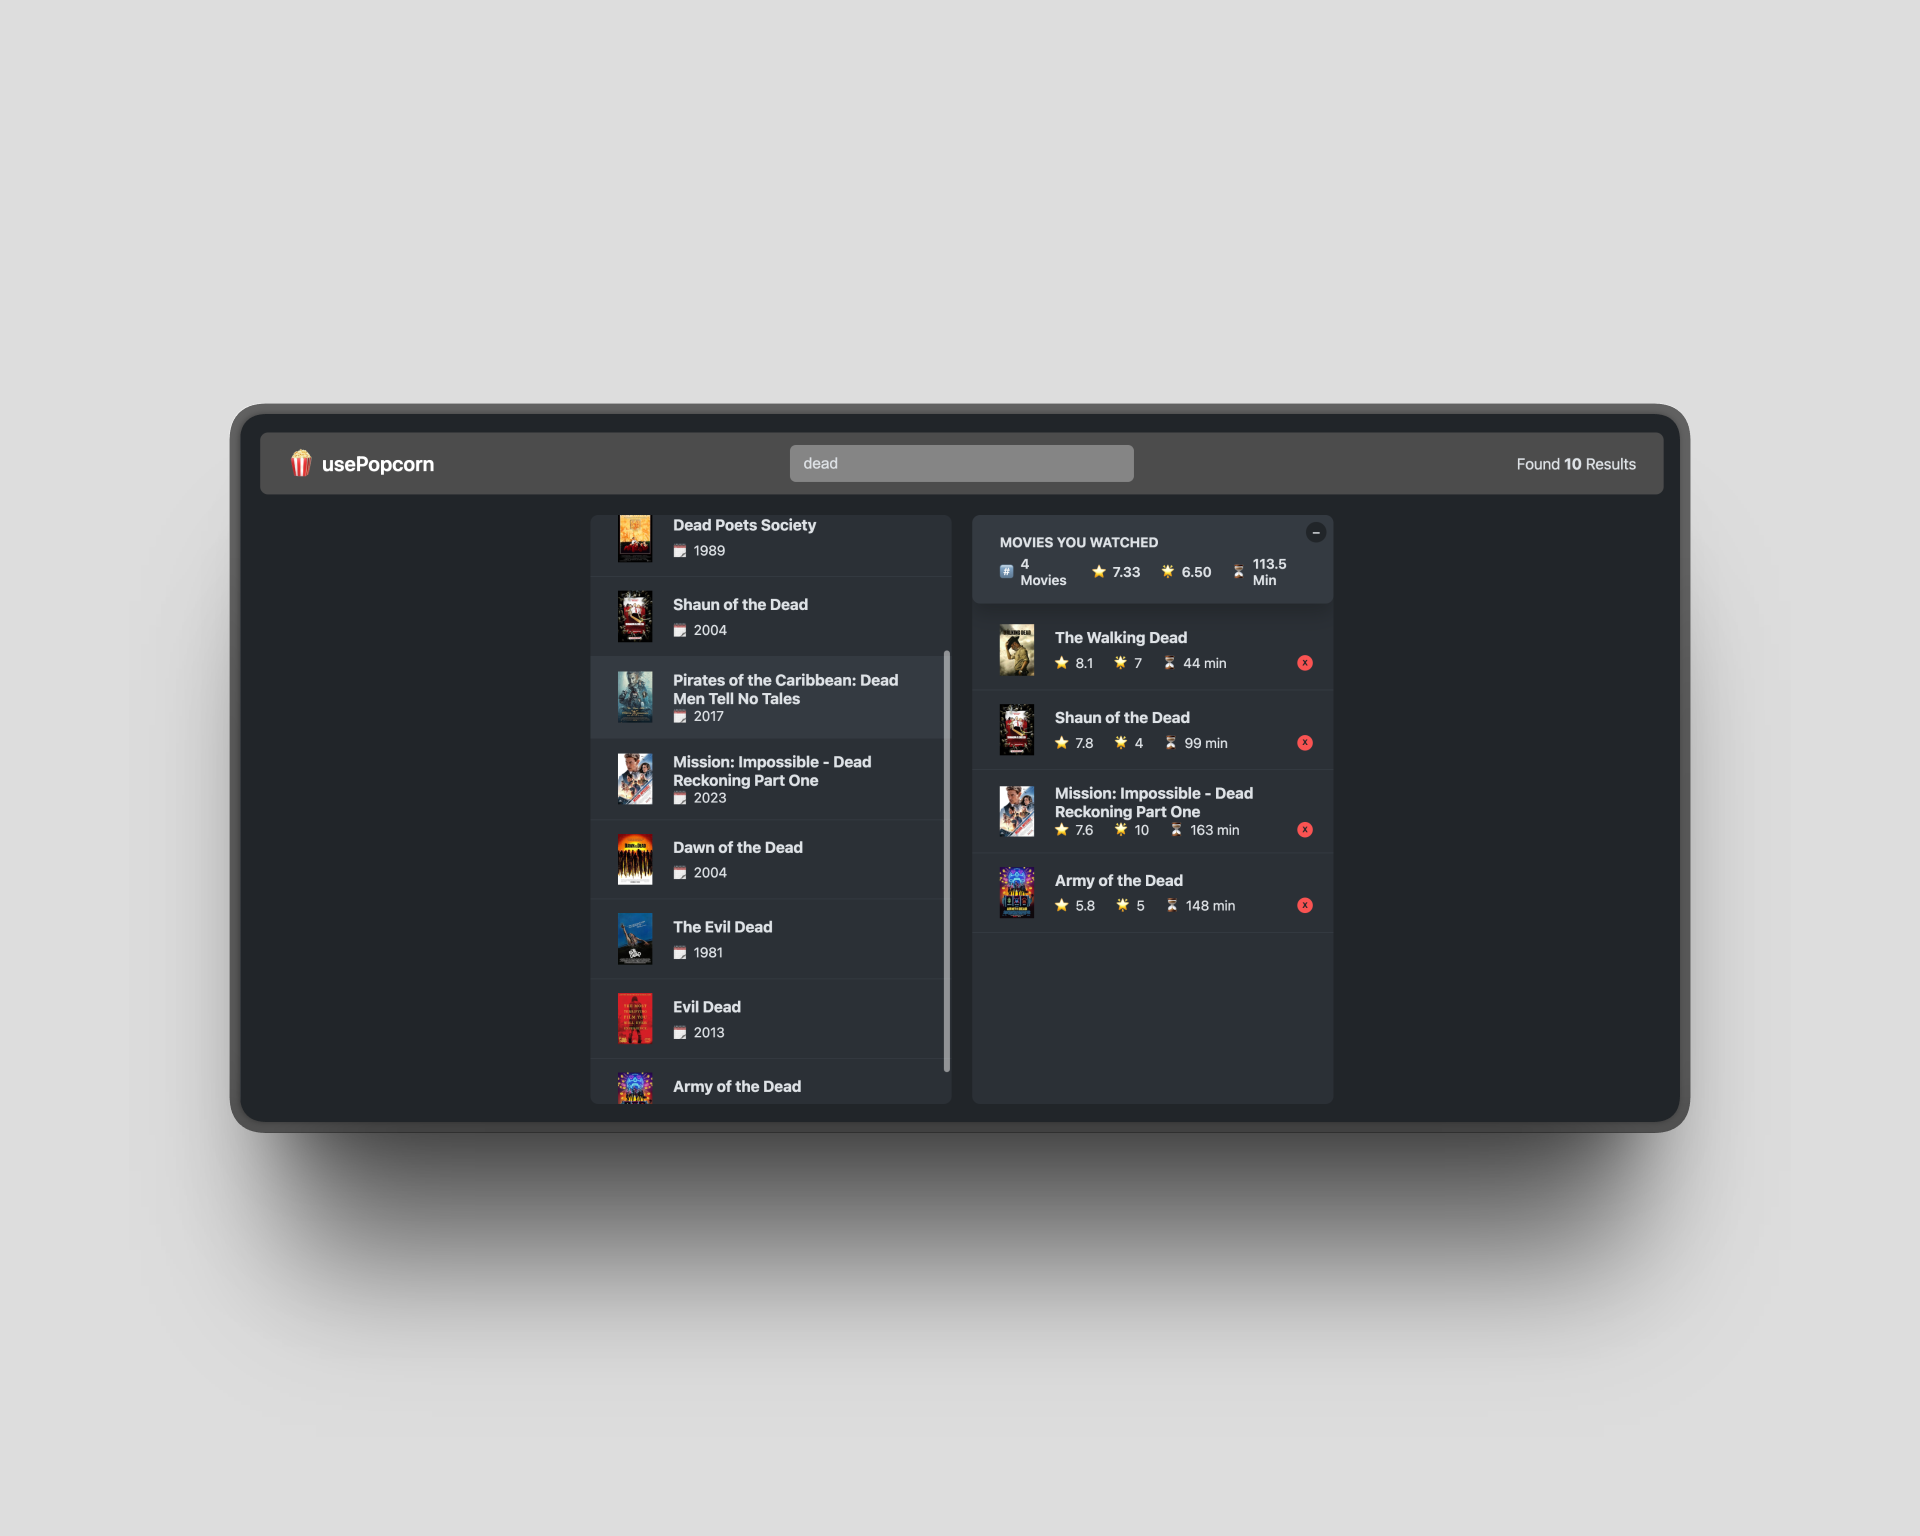
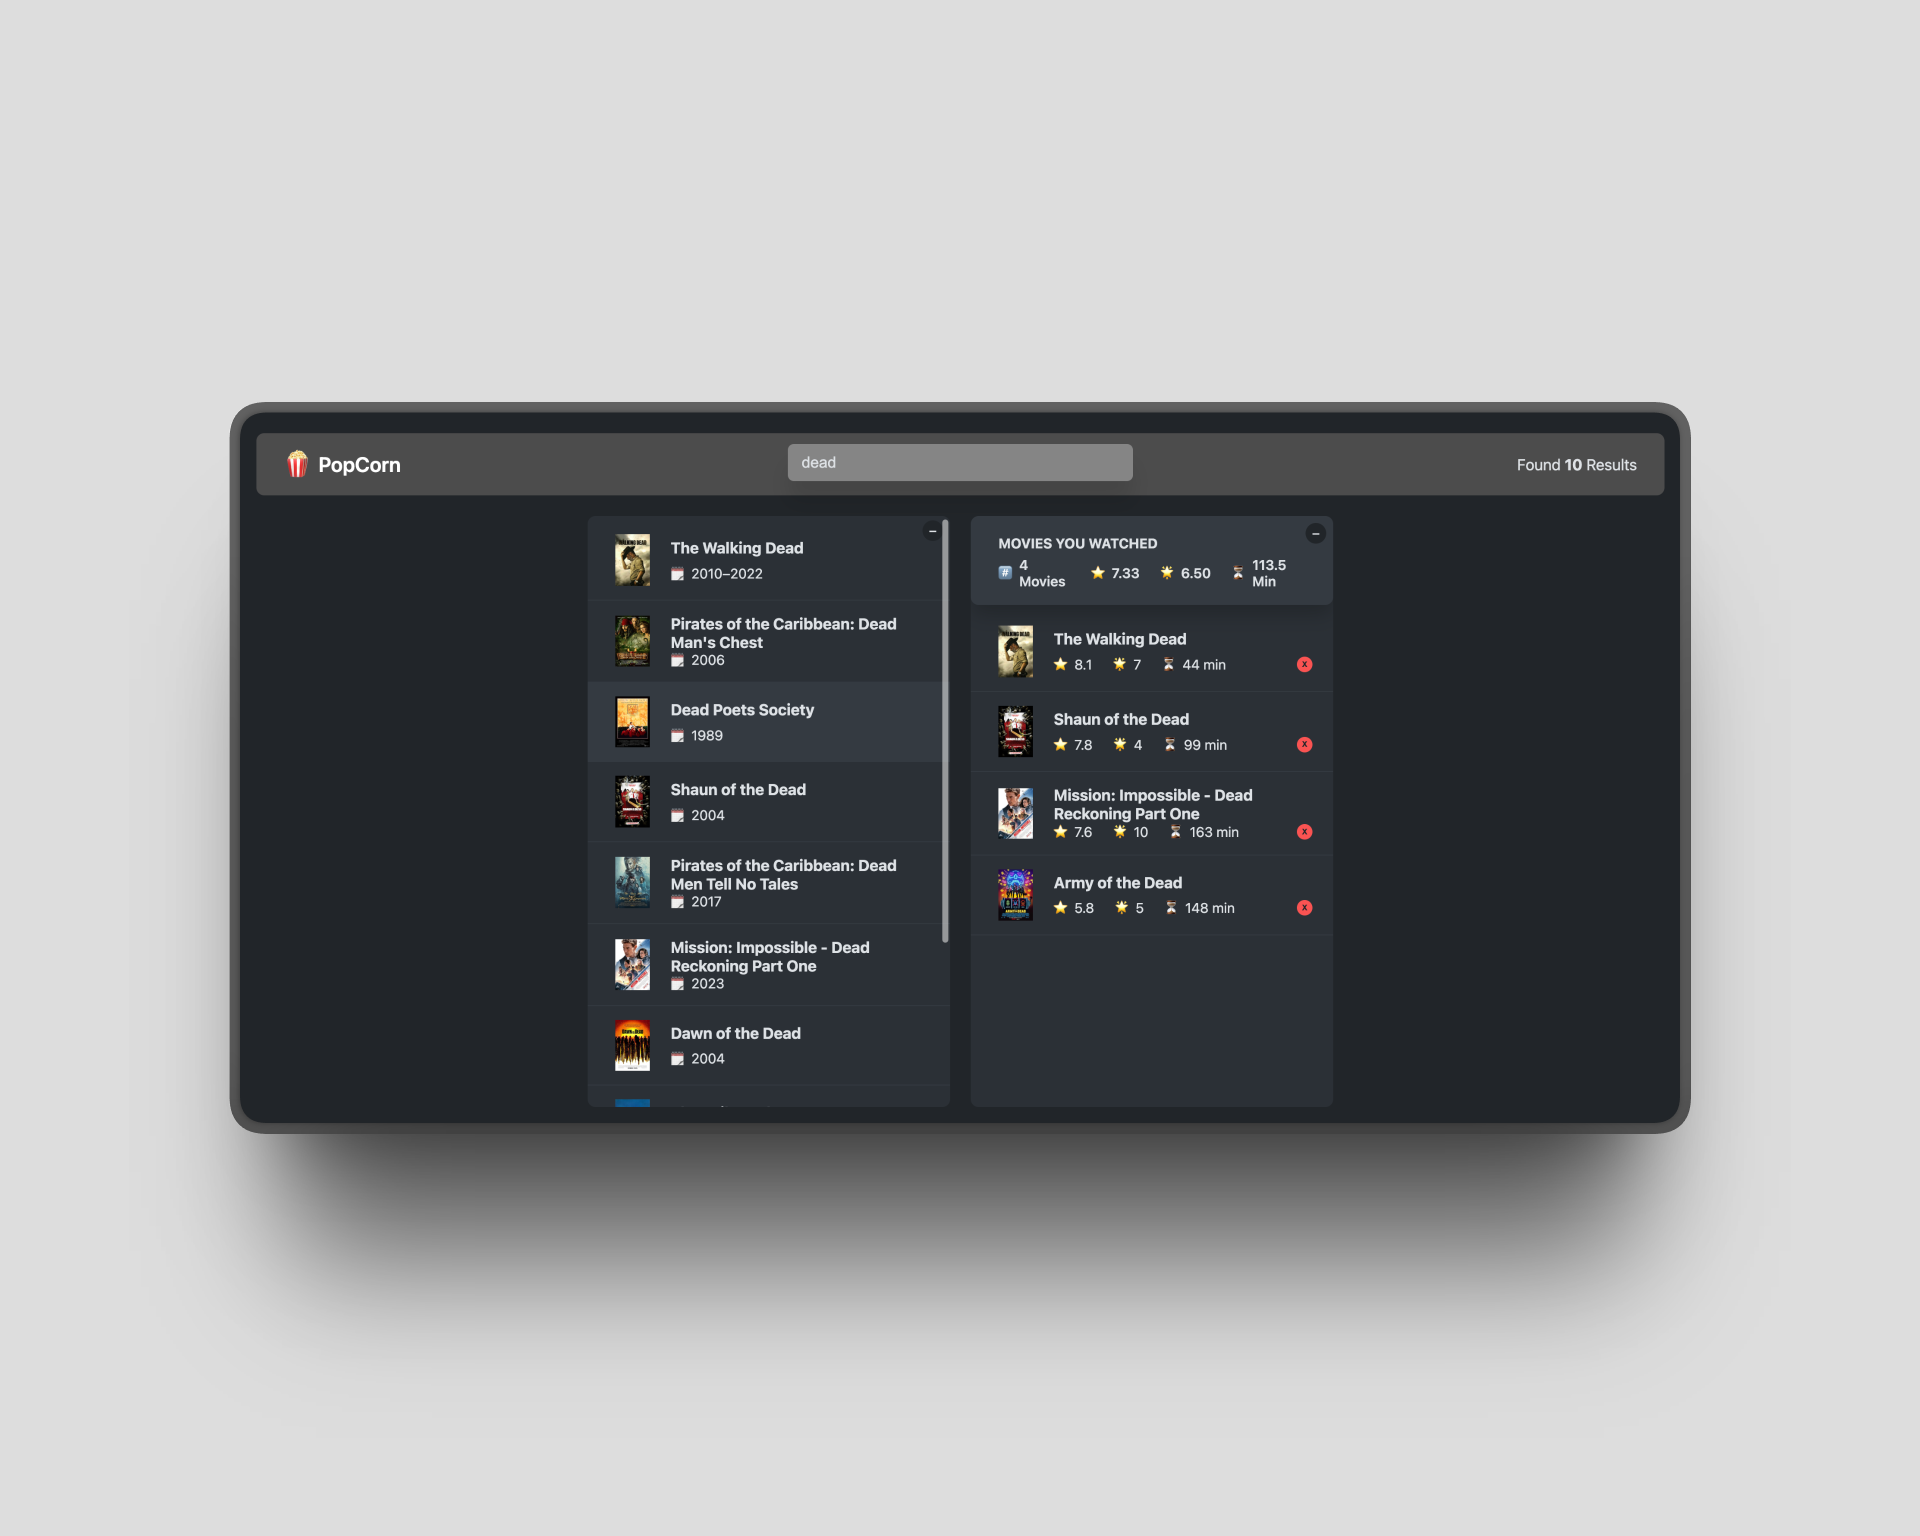
add pics to readme

diff --git a/src/App.js b/src/App.js
@@ -301,7 +301,7 @@ function MovieDetails({ selectedId, onCloseMovie, onAddWatched, watched }) {
             document.title = `Movie | ${title}`;
 
             return function () {
-                document.title = "usePopcorn";
+                document.title = "Popcorn";
                 // console.log(`Clean up effect for movie ${title}`);
             };
         },
